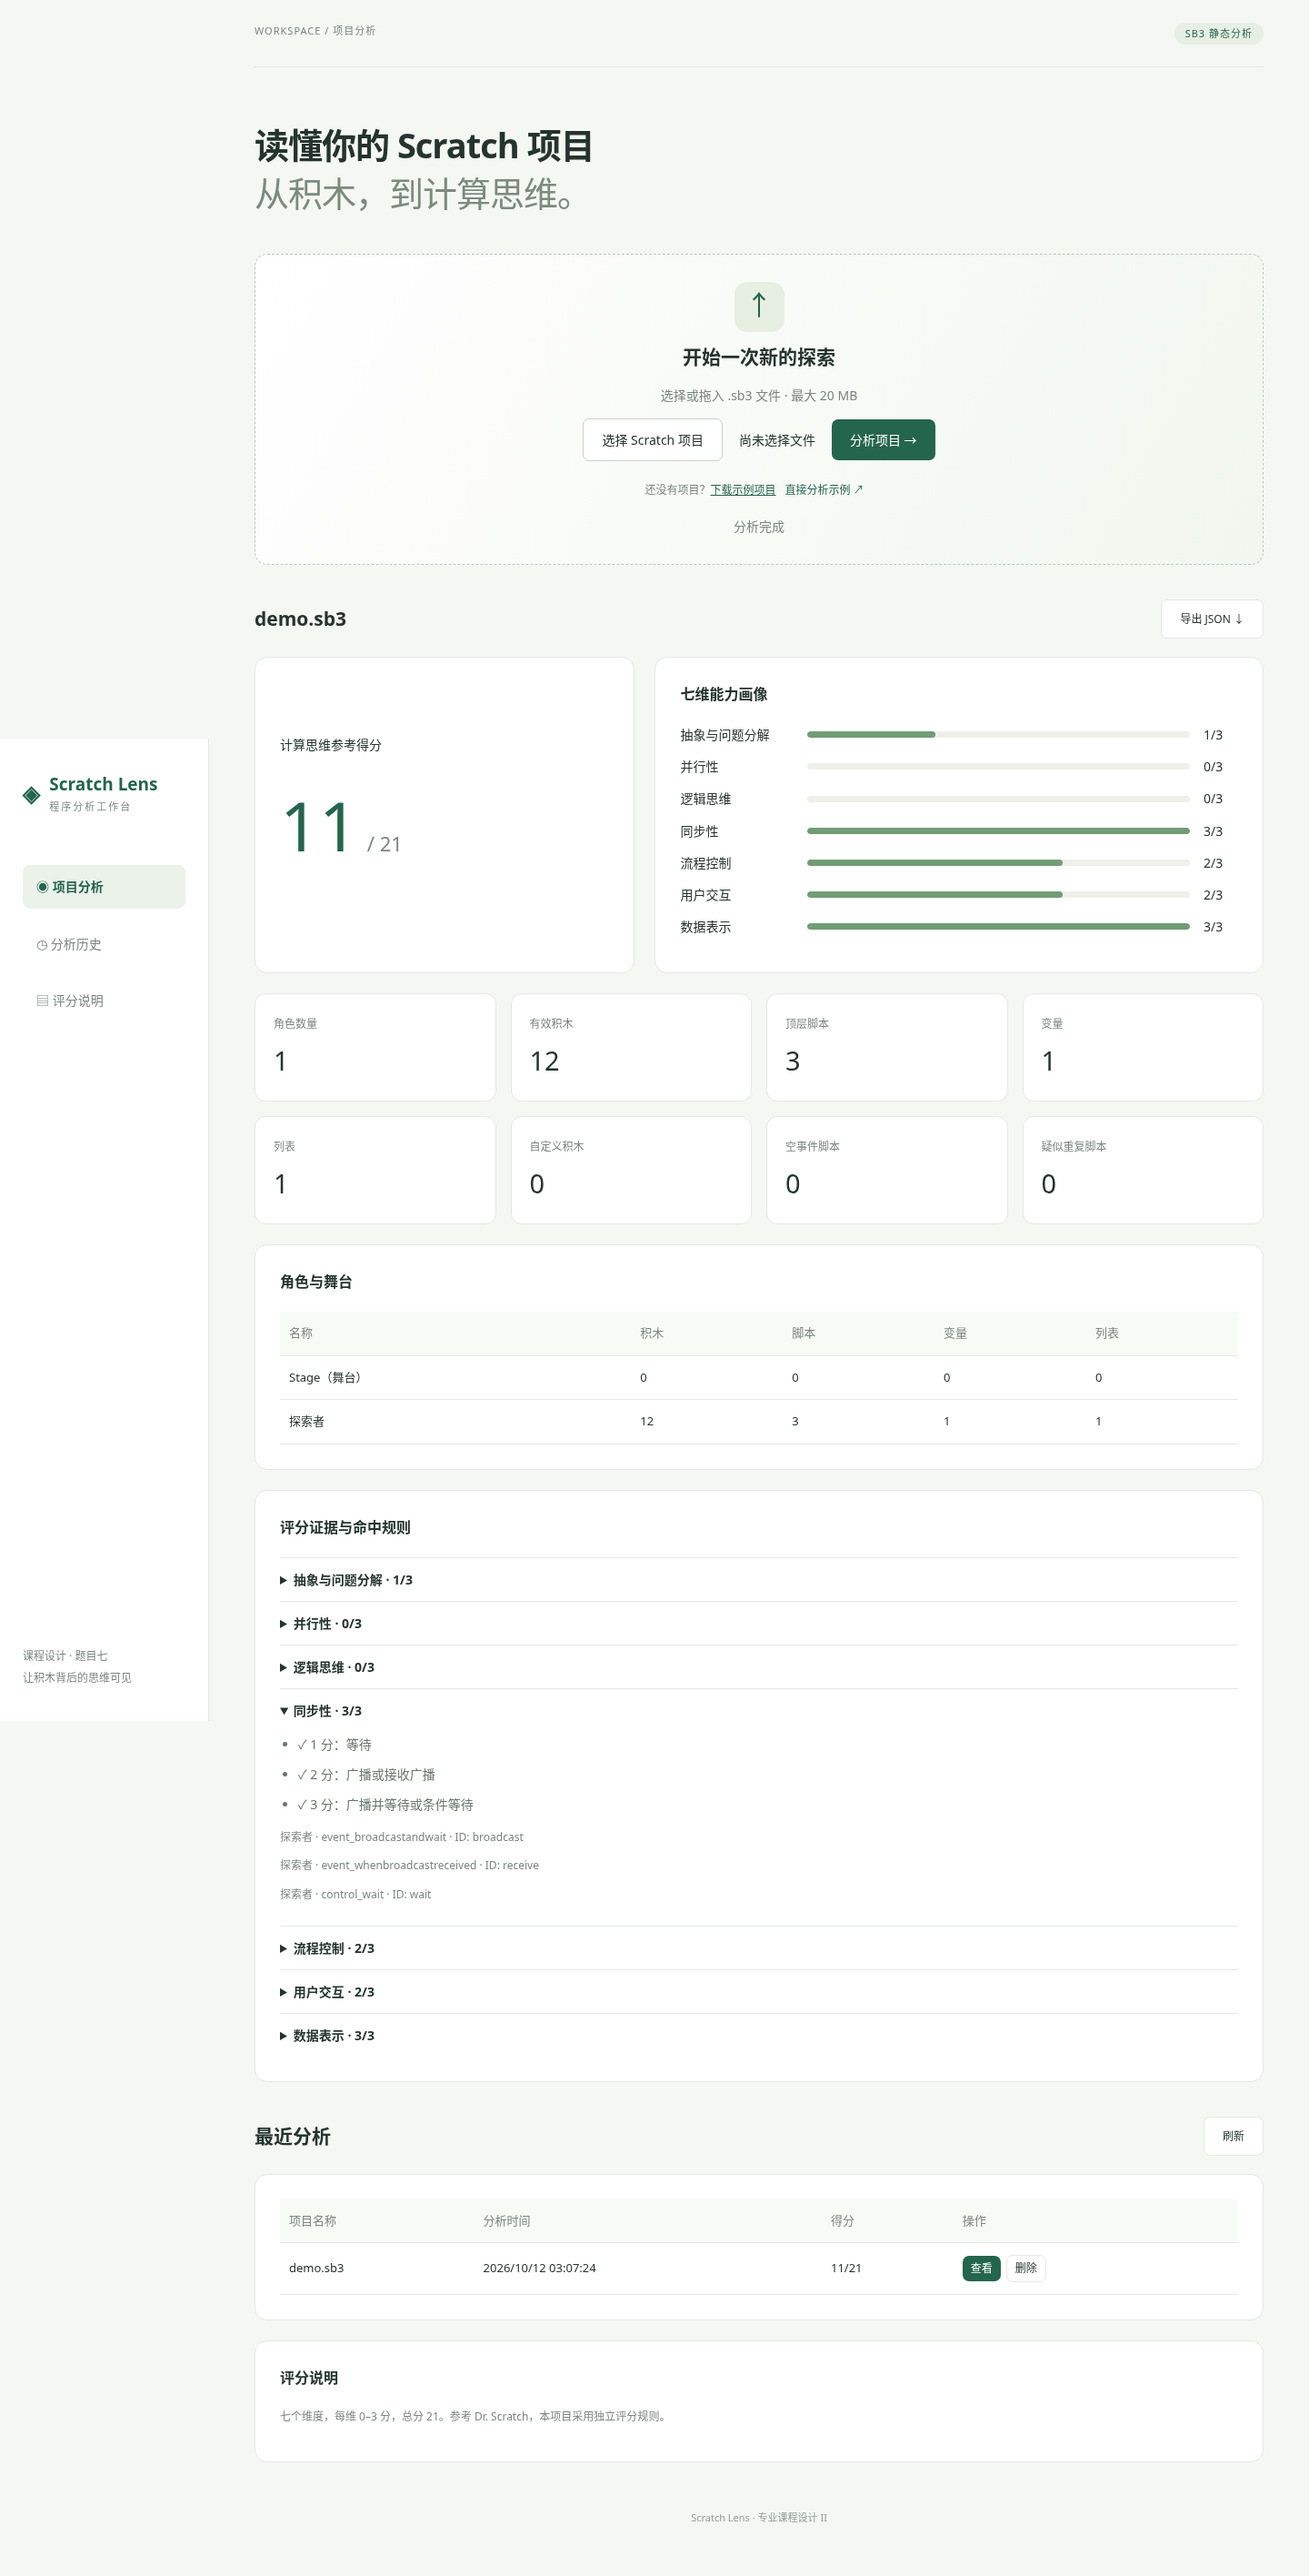
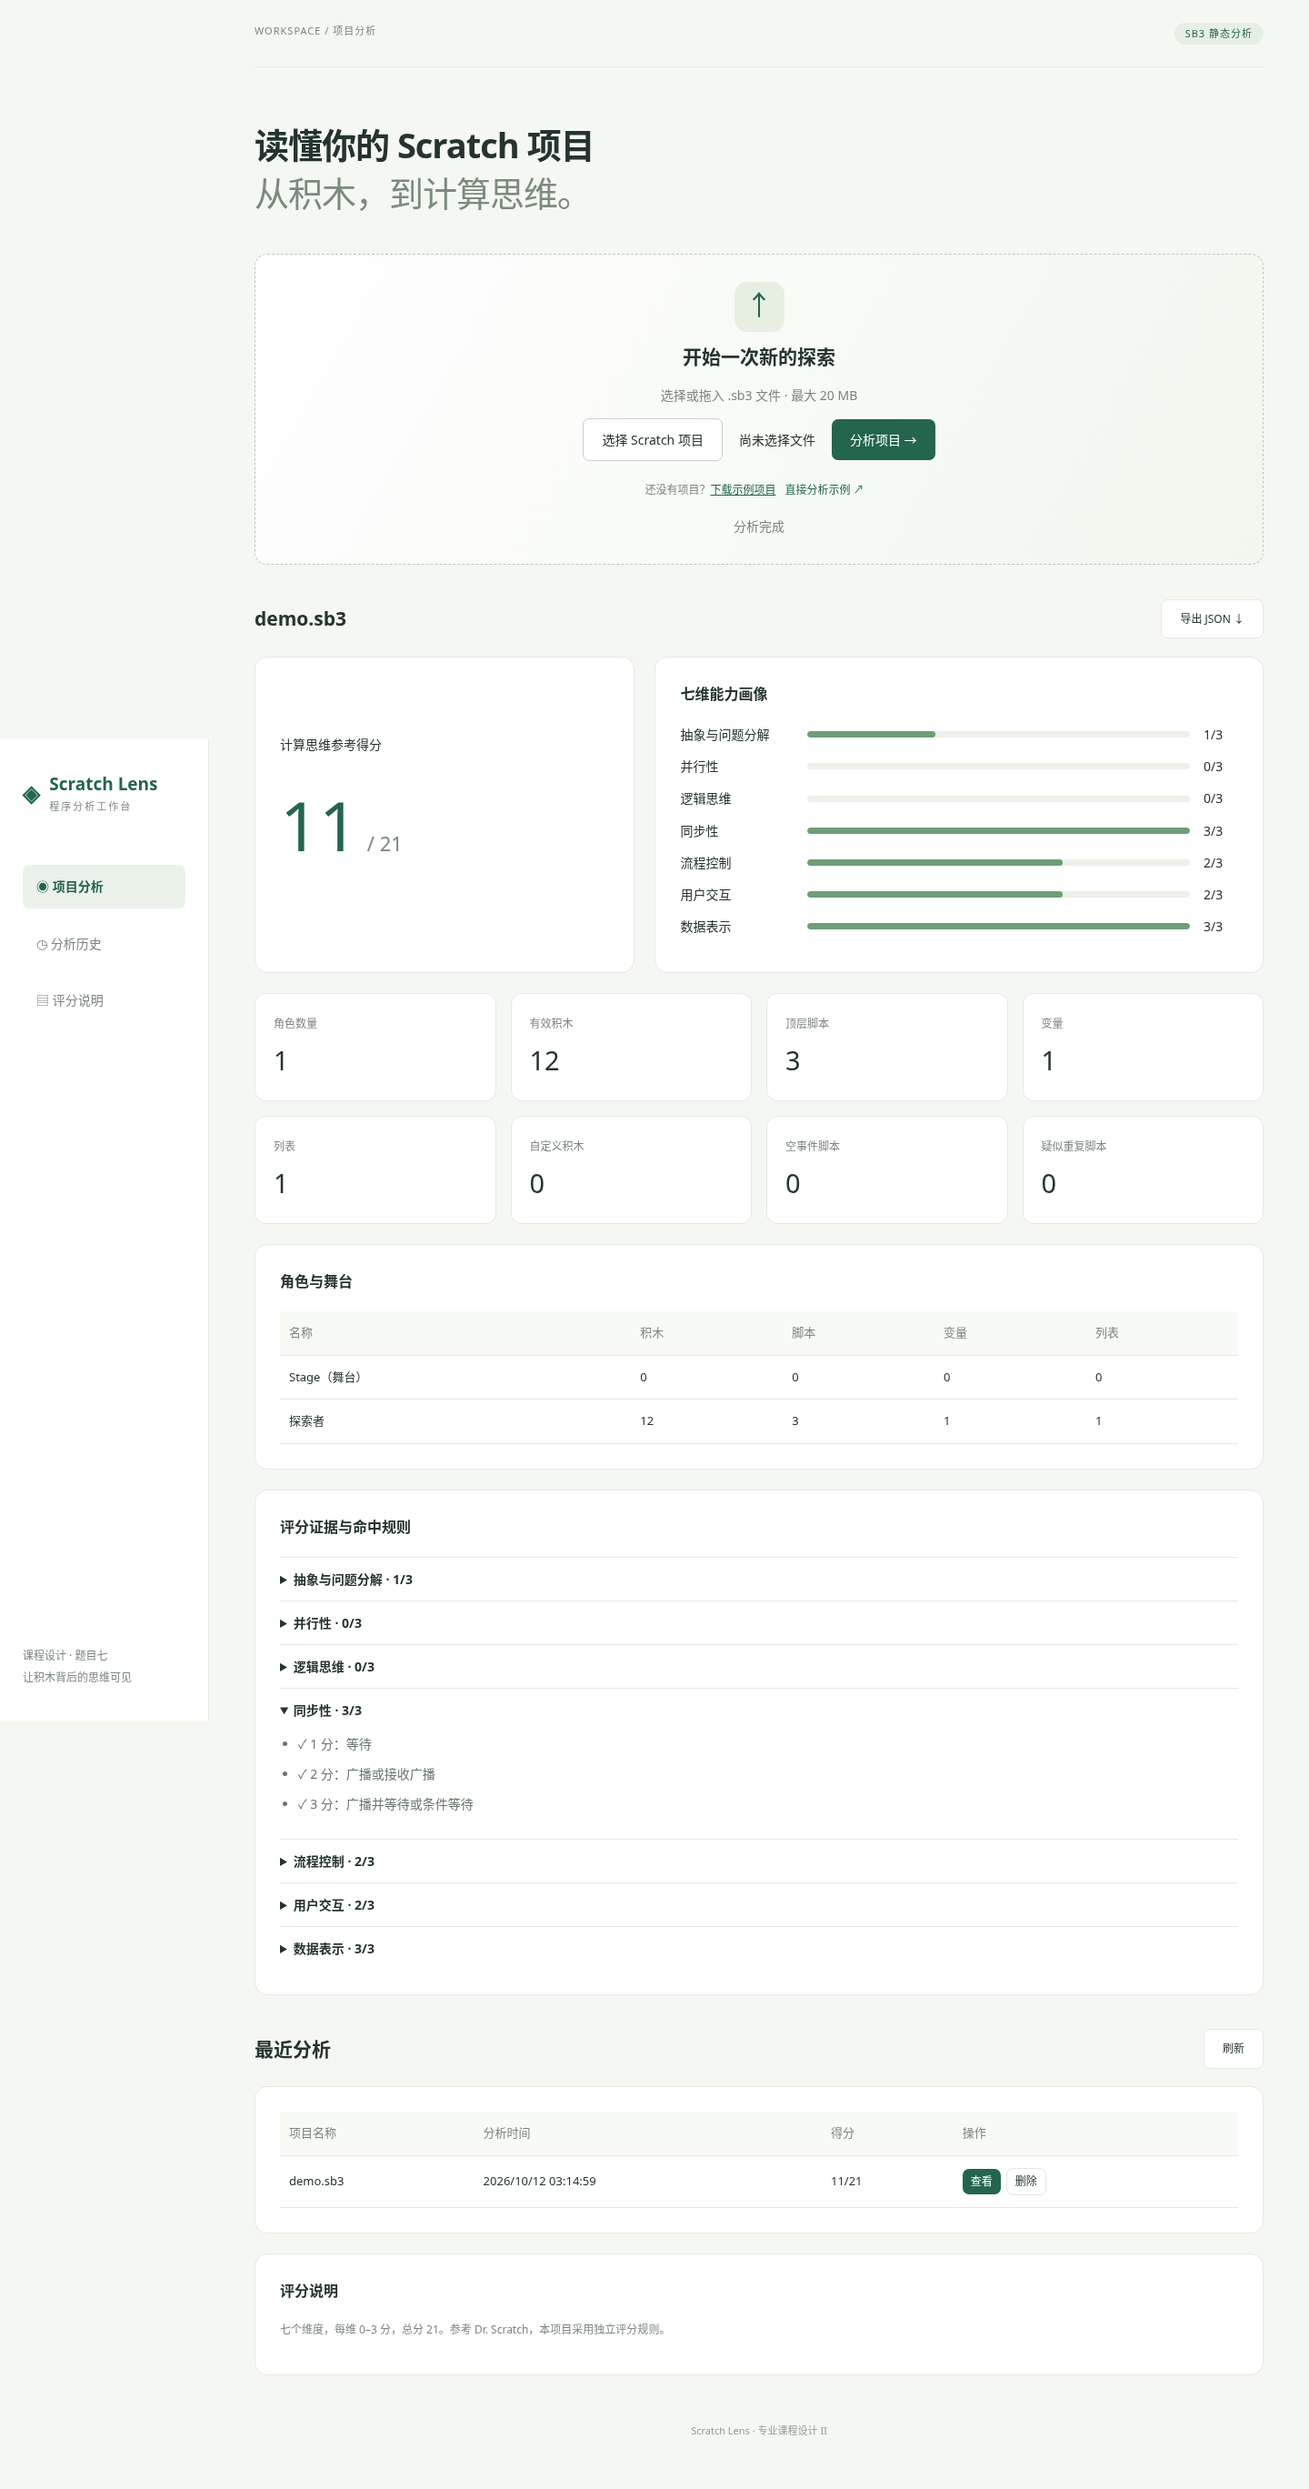
Remove technical block evidence lines from report interface

diff --git a/public/app.js b/public/app.js
@@ -5,7 +5,7 @@ async function api(url,options){const r=await fetch(url,options);const data=awai
 function status(text,error=false){$('#status').textContent=text;$('#status').classList.toggle('error',error);}
 function render(report){current=report;$('#report').hidden=false;$('#report-title').textContent=report.filename;$('#score').textContent=report.score;
  $('#dimensions').replaceChildren();$('#evidence').replaceChildren();
- for(const d of report.dimensions){const row=el('div',undefined,'dimension'),track=el('div',undefined,'track'),fill=el('div',undefined,'fill');fill.style.width=(d.score/3*100)+'%';track.append(fill);row.append(el('span',d.name),track,el('span',d.score+'/3'));$('#dimensions').append(row);const details=el('details');details.append(el('summary',`${d.name} · ${d.score}/3`));const ul=el('ul');for(const l of d.levels)ul.append(el('li',`${l.matched?'✓':'○'} ${l.level} 分：${l.rule}`));details.append(ul);for(const e of d.evidence)details.append(el('p',`${e.target} · ${e.opcode} · ID: ${e.blockId}`));if(!d.evidence.length)details.append(el('p','此维度由脚本数量或结构推导，或未命中相关积木。'));$('#evidence').append(details);}
+ for(const d of report.dimensions){const row=el('div',undefined,'dimension'),track=el('div',undefined,'track'),fill=el('div',undefined,'fill');fill.style.width=(d.score/3*100)+'%';track.append(fill);row.append(el('span',d.name),track,el('span',d.score+'/3'));$('#dimensions').append(row);const details=el('details');details.append(el('summary',`${d.name} · ${d.score}/3`));const ul=el('ul');for(const l of d.levels)ul.append(el('li',`${l.matched?'✓':'○'} ${l.level} 分：${l.rule}`));details.append(ul);$('#evidence').append(details);}
  $('#metrics').replaceChildren();for(const [key,label]of [['sprites','角色数量'],['blocks','有效积木'],['scripts','顶层脚本'],['variables','变量'],['lists','列表'],['customBlocks','自定义积木'],['emptyScripts','空事件脚本'],['duplicateScripts','疑似重复脚本']]){const c=el('div',undefined,'metric');c.append(el('span',label),el('strong',report.metrics[key]));$('#metrics').append(c);}
  $('#targets').replaceChildren();for(const t of report.targets){const tr=el('tr');for(const value of [t.name+(t.isStage?'（舞台）':''),t.blocks,t.scripts,t.variables,t.lists])tr.append(el('td',value));$('#targets').append(tr);}
  $('#warnings').replaceChildren(...report.warnings.map(x=>el('li',x)));$('#warning-panel').hidden=report.warnings.length===0;
